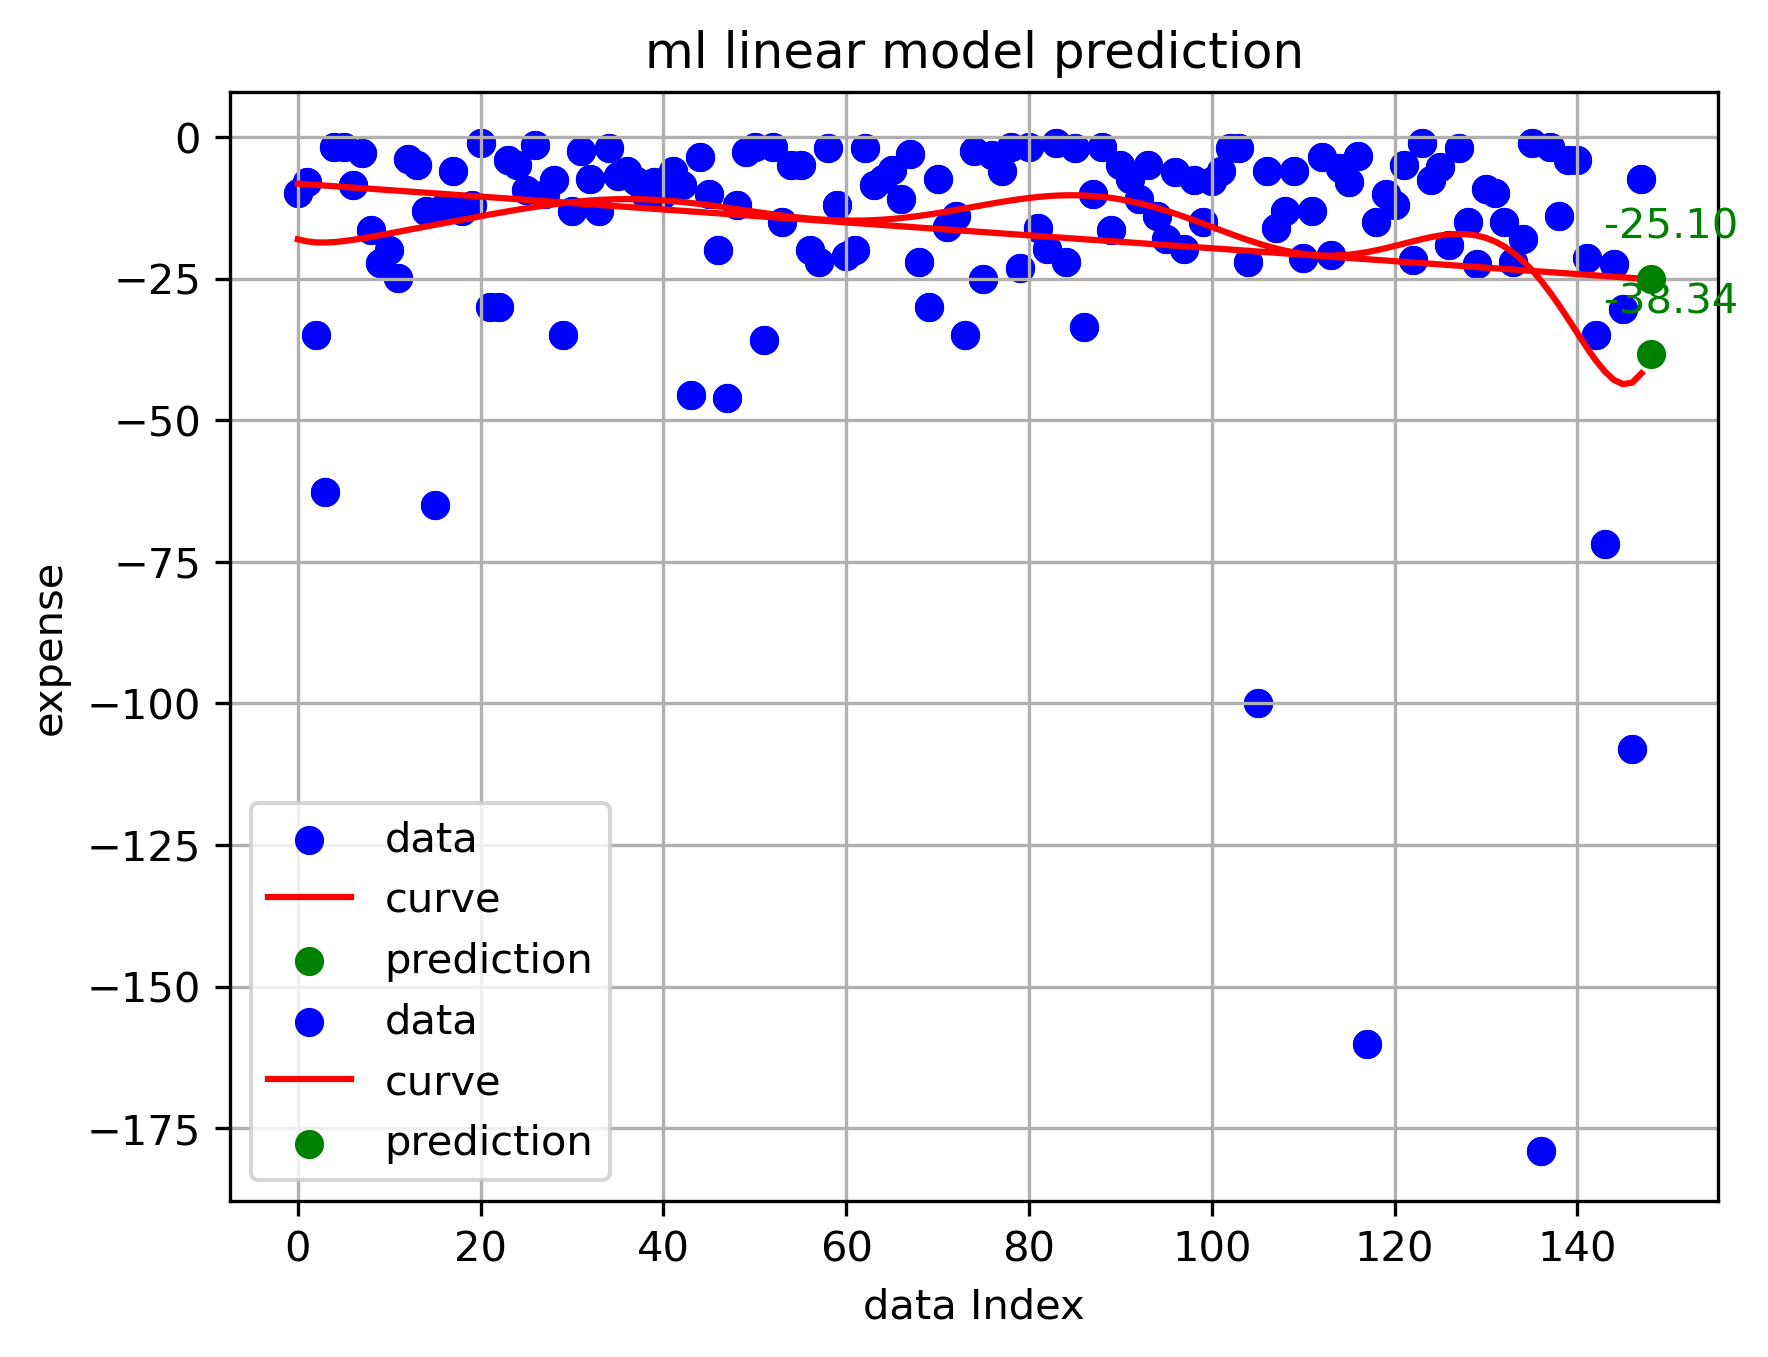
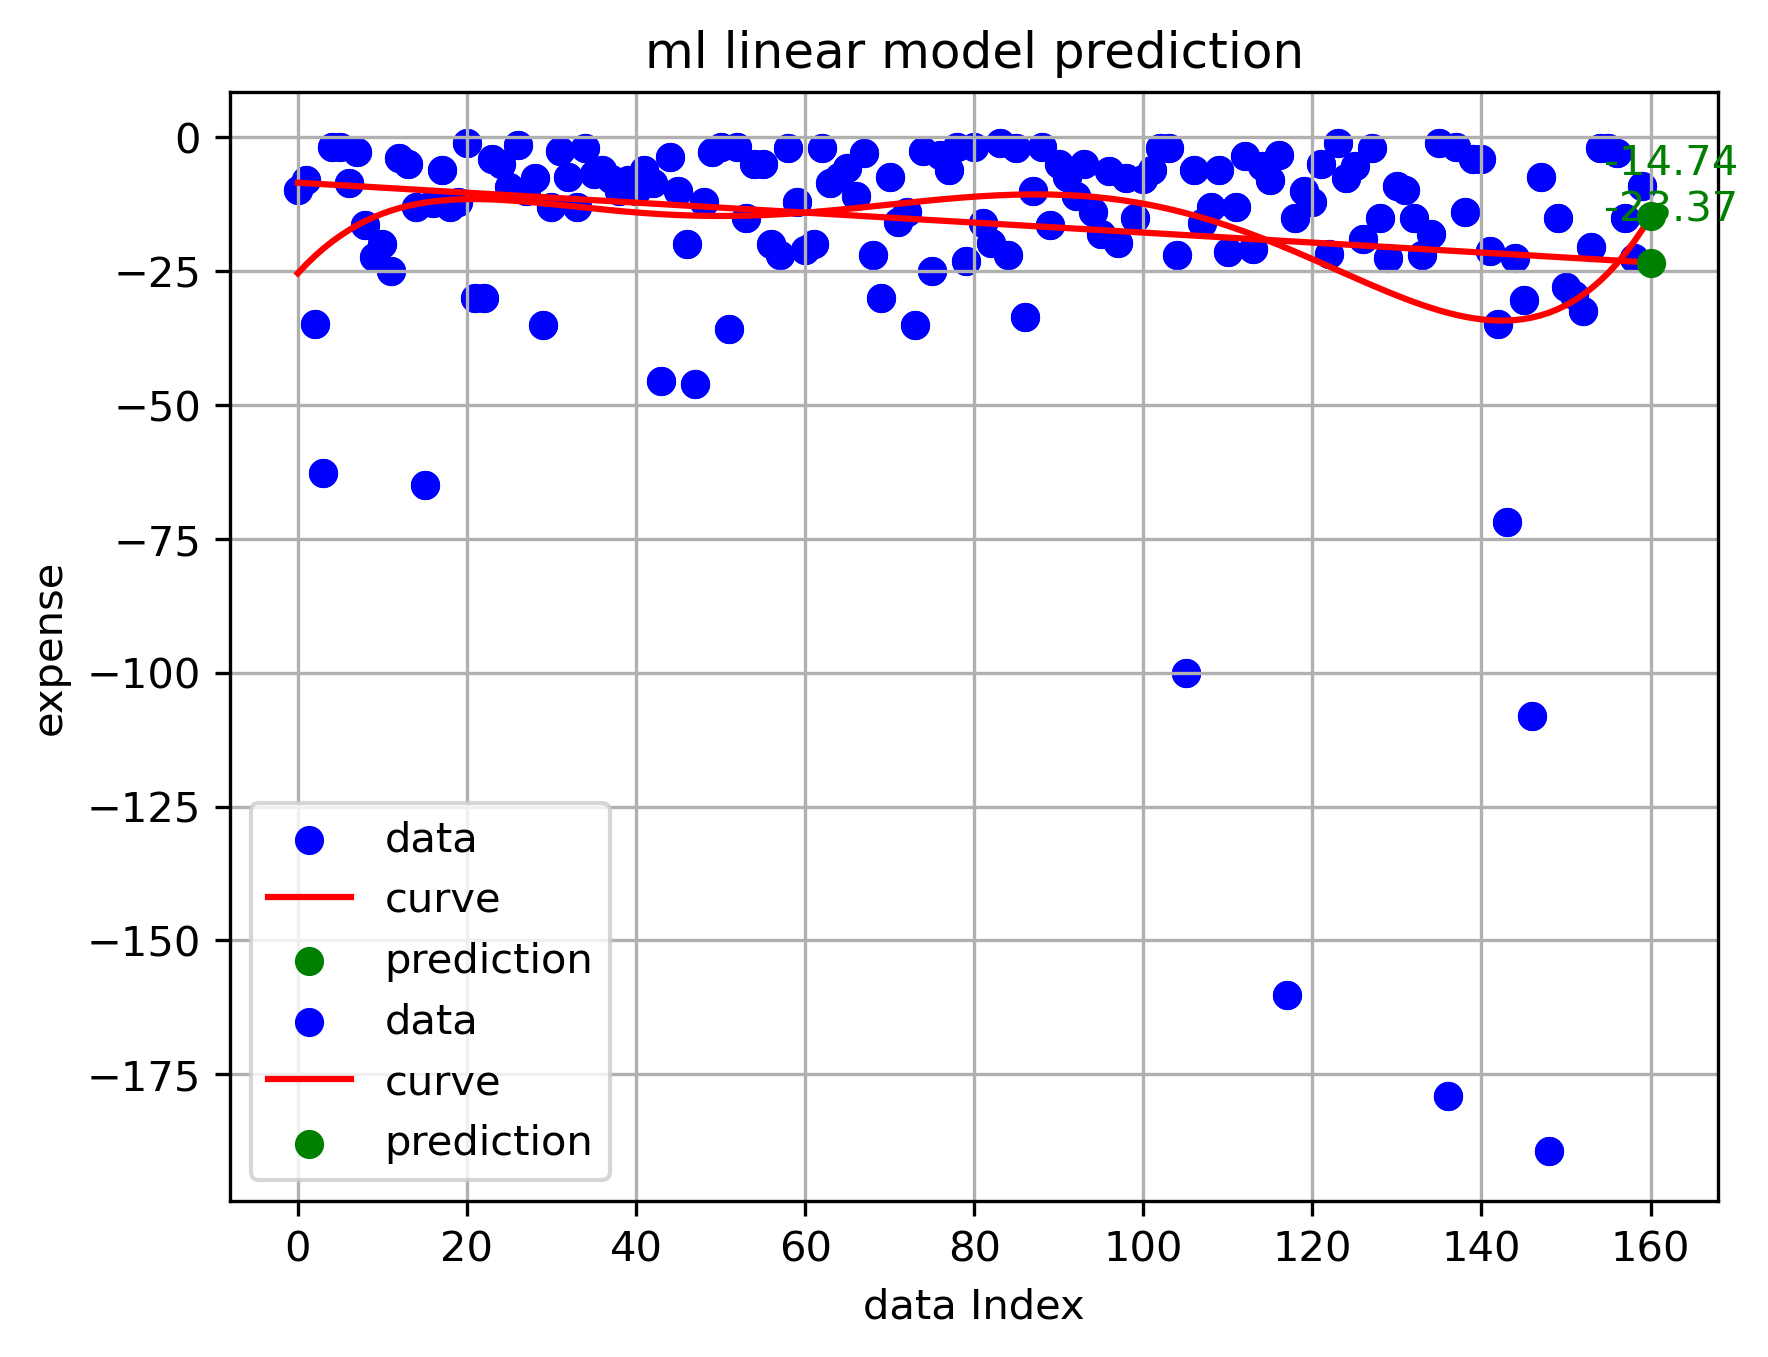
data update 12.4 for my birthday carnival

diff --git a/ExpenseAnalysis/expenseAnalysis.py b/ExpenseAnalysis/expenseAnalysis.py
@@ -28,6 +28,7 @@ try:
         # 提取数据
         data = [row[0] for row in result]
         indices = list(range(len(data)))  # 用索引代表 x 轴
+        # print(data)
 
         # 检查是否有数据
         if not data:
@@ -37,7 +38,7 @@ try:
             plt.scatter(indices, data, color='blue', label='data')
 
             # 拟合线性回归模型
-            coefficients = np.polyfit(indices, data, 10)  # 一次多项式拟合 (线性)
+            coefficients = np.polyfit(indices, data, 5)  # 一次多项式拟合 (线性)
             polynomial = np.poly1d(coefficients)
             fitted_values = polynomial(indices)
 

diff --git a/Avg&Var/Avg&Var.py b/Avg&Var/Avg&Var.py
@@ -30,7 +30,7 @@ try:
 
     # 查询 2: 日期出现次数统计
     with connection.cursor() as cursor:
-        query = "SELECT `日期` FROM table_detail WHERE `金额（可执行）` < -15 AND NOT `项目` = '小结';"
+        query = "SELECT `日期` FROM table_detail WHERE `金额（可执行）` <= -15 AND NOT `项目` = '小结';"
         cursor.execute(query)
         result = cursor.fetchall()
         overspend = [row[0] for row in result]

diff --git a/Avg&Var/result.md b/Avg&Var/result.md
@@ -2,8 +2,8 @@
 
 ## 金额（可执行）数据分析
 
-- 平均值: -69.8809375
-- 方差: 3069.347931350807
+- 平均值: -79.72558823529413
+- 方差: 6827.324534491979
 
 ## 日期出现次数统计
 
@@ -16,7 +16,7 @@
 | 2024-11-06 |          2 |
 | 2024-11-07 |          1 |
 | 2024-11-08 |          1 |
-| 2024-11-09 |          3 |
+| 2024-11-09 |          4 |
 | 2024-11-10 |          1 |
 | 2024-11-12 |          1 |
 | 2024-11-13 |          2 |
@@ -26,14 +26,16 @@
 | 2024-11-17 |          3 |
 | 2024-11-19 |          1 |
 | 2024-11-20 |          1 |
+| 2024-11-21 |          1 |
 | 2024-11-22 |          3 |
 | 2024-11-23 |          1 |
 | 2024-11-24 |          1 |
-| 2024-11-25 |          1 |
+| 2024-11-25 |          2 |
 | 2024-11-26 |          1 |
 | 2024-11-27 |          1 |
-| 2024-11-28 |          1 |
-| 2024-11-29 |          2 |
+| 2024-11-28 |          2 |
+| 2024-11-29 |          3 |
 | 2024-11-30 |          4 |
 | 2024-12-01 |          2 |
-| 2024-12-02 |          1 |
+| 2024-12-02 |          7 |
+| 2024-12-03 |          2 |

diff --git a/ExpenseAnalysis/model_predictions.md b/ExpenseAnalysis/model_predictions.md
@@ -4,12 +4,12 @@
 ## 预测值列表
 | 序号 | 预测值 |
 | -------- | ----------------------- |
-| 1    | -38.33867              |
-| 2    | -25.10460              |
-| 3    | -28.35650              |
-| 4    | -14.60070              |
+| 1    | -14.74499              |
+| 2    | -23.37068              |
+| 3    | -12.82820              |
+| 4    | -14.88203              |
     
 ## 统计分析
-- **均值**: -26.60
-- **总体方差**: 71.78
-- **样本方差**: 95.70
+- **均值**: -16.46
+- **总体方差**: 16.59
+- **样本方差**: 22.13
